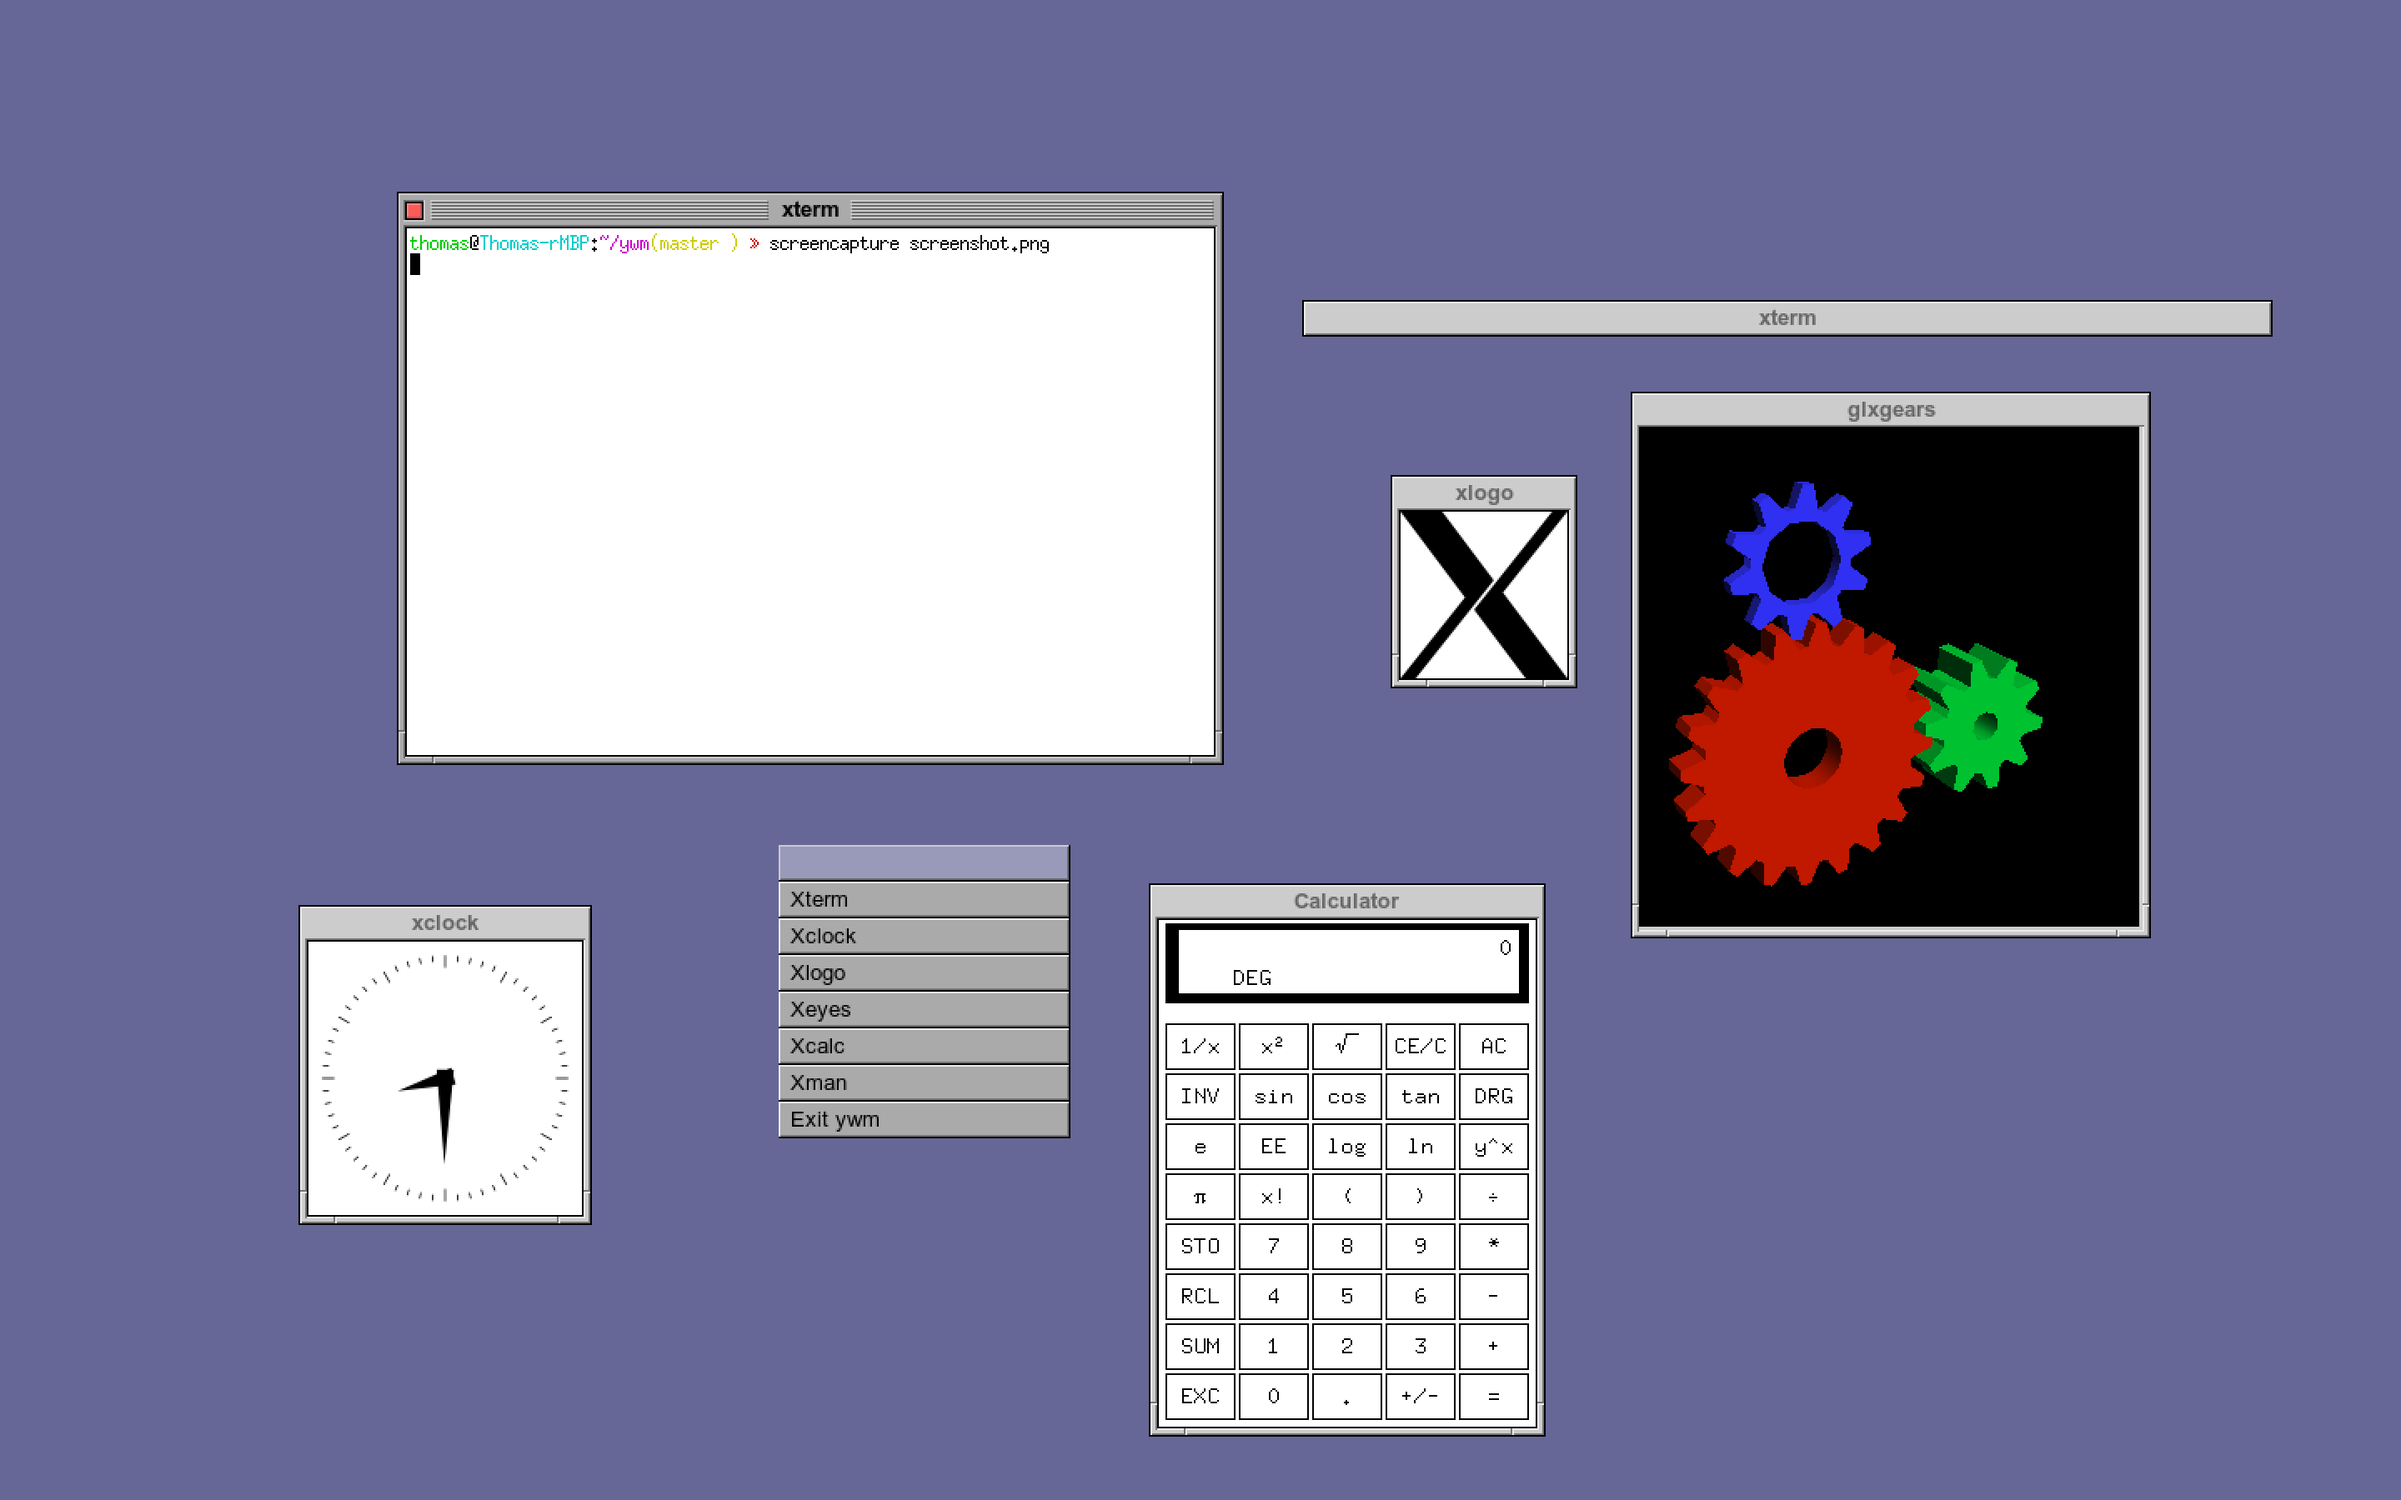
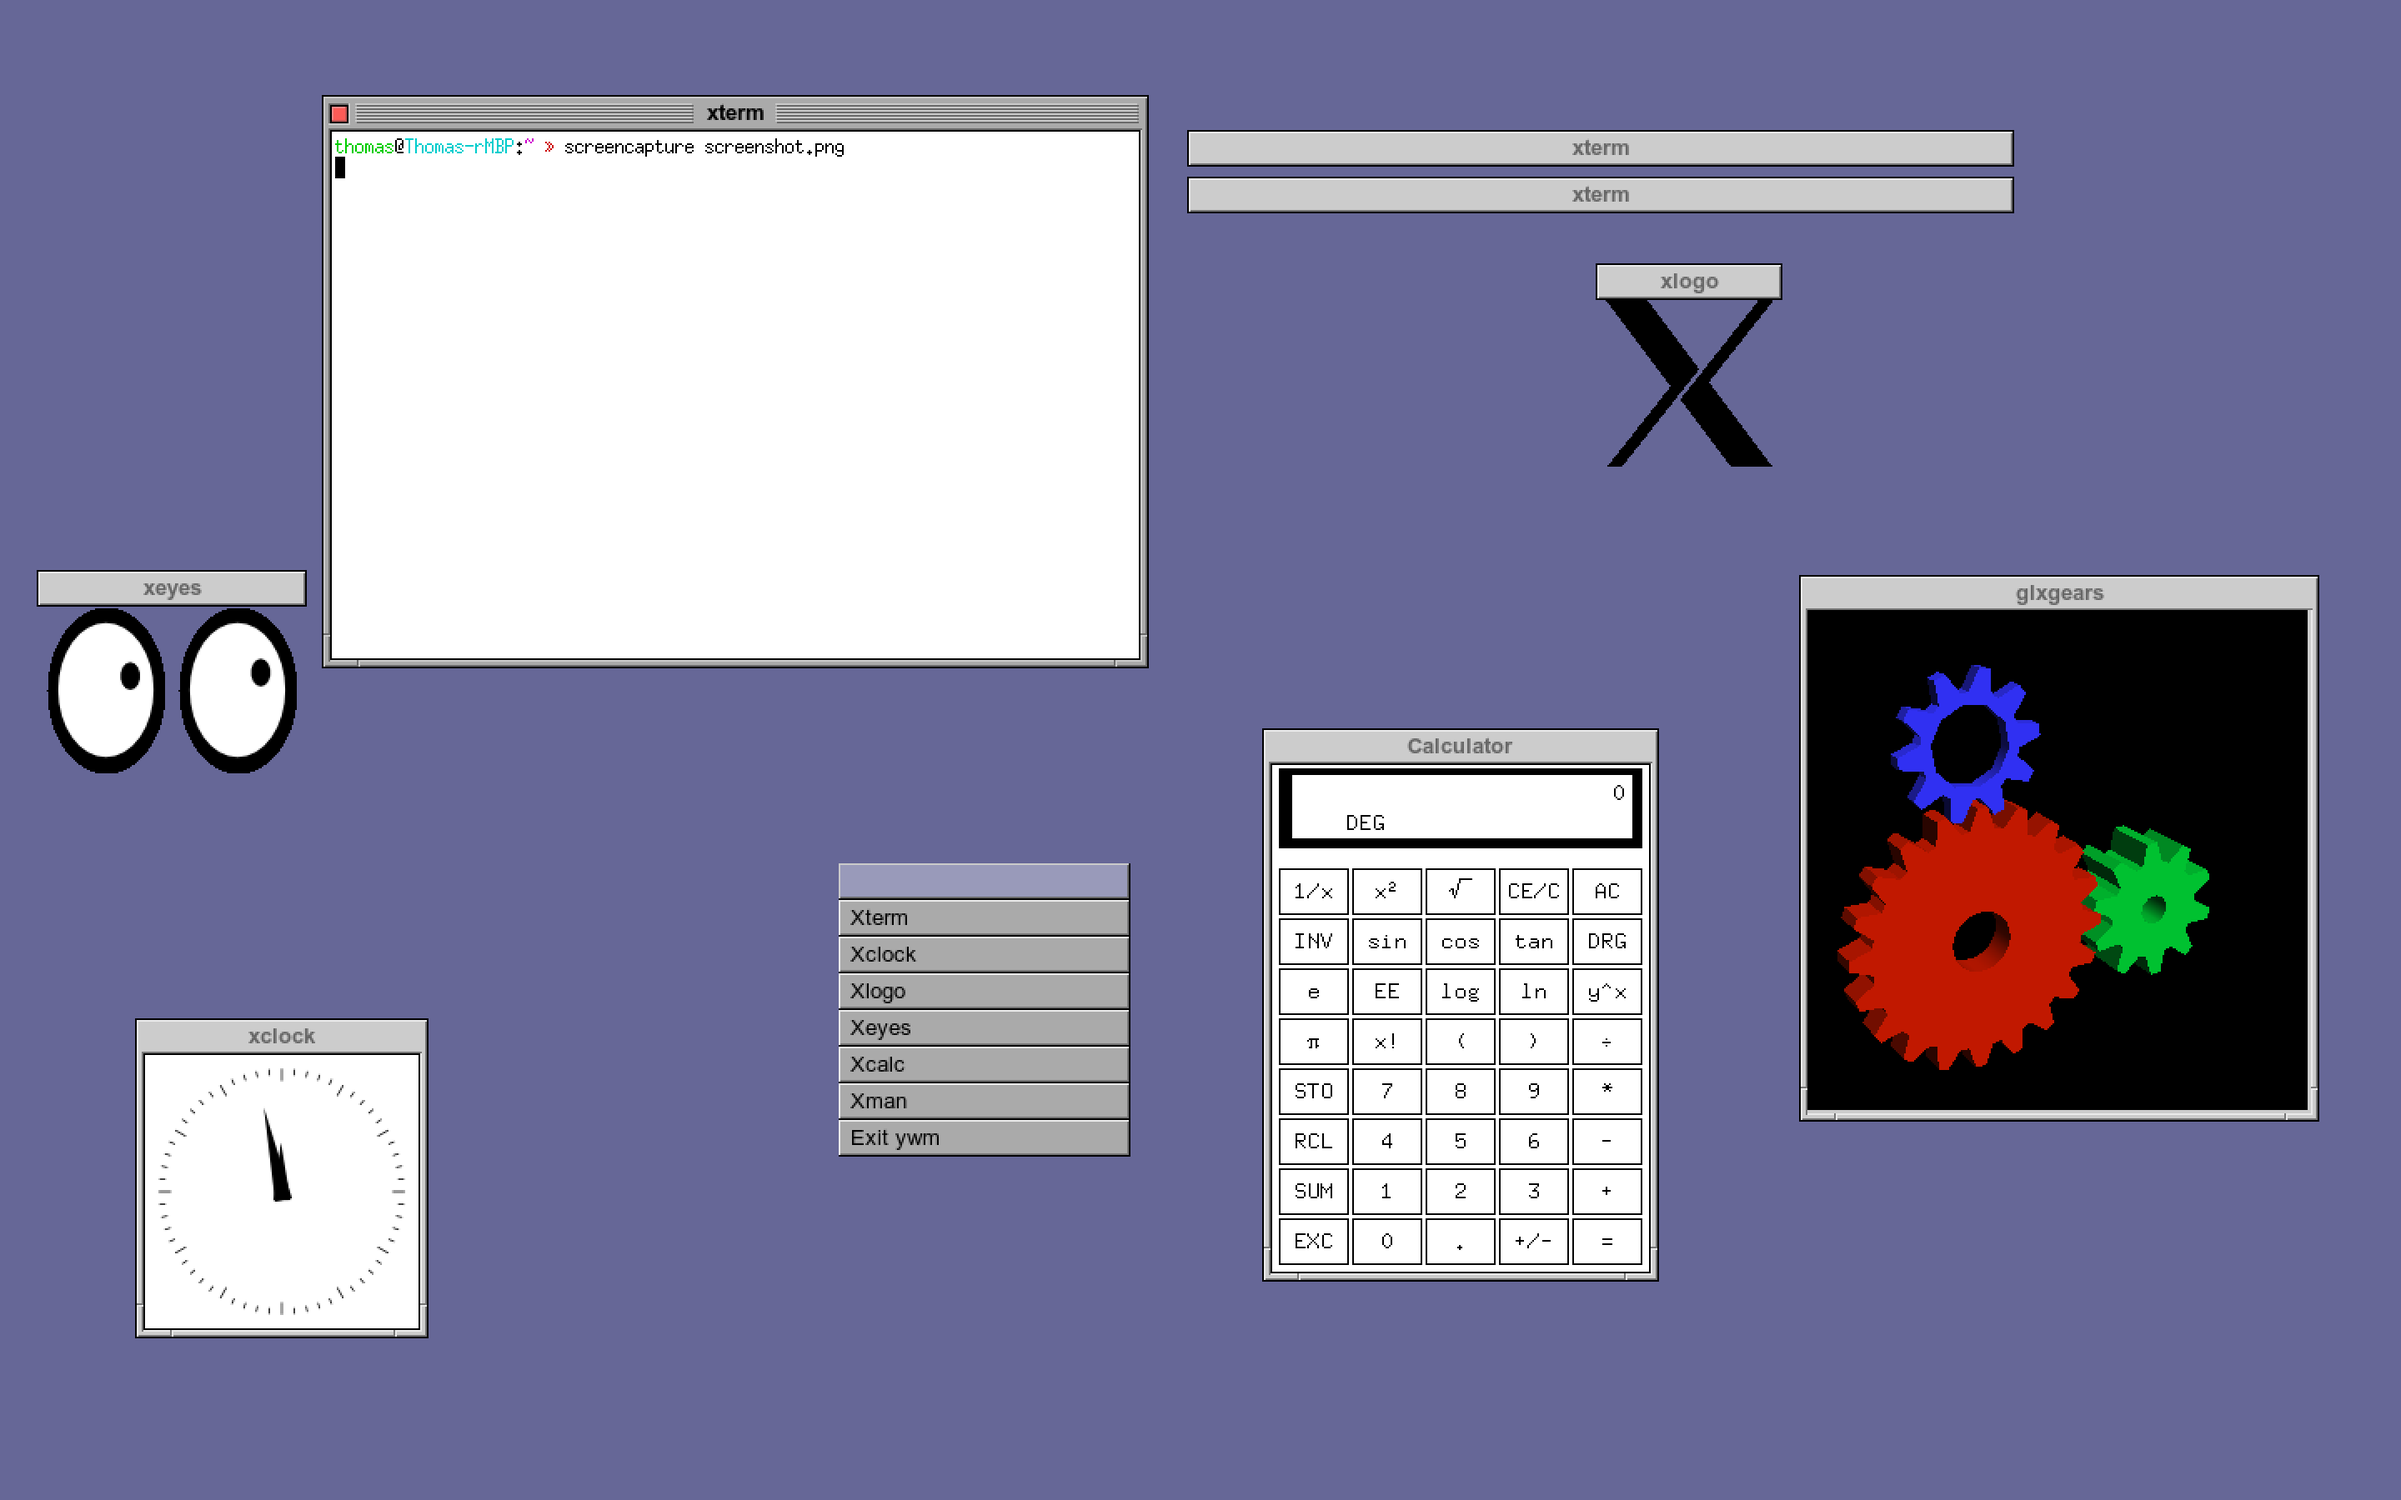
Implement the shape extension

diff --git a/src/ywm.c b/src/ywm.c
@@ -33,7 +33,7 @@ static void setup_display()
   XColor backgroundColor = create_color("#666797");
   XSetWindowBackground(dpy, root, backgroundColor.pixel);
   
-  xft_color.color.red = 0; //65535
+  xft_color.color.red = 0;
   xft_color.color.green = 0;
   xft_color.color.blue = 0;
   xft_color.color.alpha = 65535;
@@ -79,6 +79,9 @@ static void setup_display()
   pointerCursor = XCreateFontCursor(dpy, XC_left_ptr);
   resize_v = XCreateFontCursor(dpy, XC_sb_v_double_arrow);
   resize_h = XCreateFontCursor(dpy, XC_sb_h_double_arrow);
+
+  int dummy;
+  shape = XShapeQueryExtension(dpy, &shape_event, &dummy);
 
   XDefineCursor(dpy, root, pointerCursor);
 }
@@ -131,7 +134,7 @@ void draw_window_titlebar(Client *client, Rect initial_window)
     int titlex = (initial_window.width / 2) - (title_width / 2);
 		
     if (client == focused_client) {
-		xft_color.color.alpha = 65535;
+	  xft_color.color.alpha = 65535;
       int left_xend_light = titlex - 10;
       int right_xstart_light = titlex + title_width + 7;
       int right_xend_light = initial_window.width - 7;
@@ -166,7 +169,12 @@ void draw_window_titlebar(Client *client, Rect initial_window)
       } else {
         XDrawLine(dpy, client->frame, dark_gc, left_xstart_dark, y, xend_dark, y);
       }
-    }	
+    }
+  }
+  
+  if (client->shaped) {
+	  XDrawLine(dpy, client->frame, black_gc, 0, FRAME_TITLEBAR_HEIGHT, client->width + FRAME_BORDER_WIDTH + 6, FRAME_TITLEBAR_HEIGHT);
+	  XDrawLine(dpy, client->frame, dark_gc, 1, FRAME_TITLEBAR_HEIGHT - 1, client->width + FRAME_BORDER_WIDTH + 5, FRAME_TITLEBAR_HEIGHT - 1);
   }
 }
 
@@ -218,7 +226,7 @@ void redraw(Client *client)
     // dark border left
     XDrawLine(dpy, client->frame, dark_gc, 3, FRAME_TITLEBAR_HEIGHT - 1, 3, height - FRAME_BORDER_WIDTH);
 	  
-    // lower left corder
+    // lower left corner
     XDrawLine(dpy, client->frame, dark_gc, 0, height - FRAME_CORNER_OFFSET, FRAME_BORDER_WIDTH, height - FRAME_CORNER_OFFSET);
     XDrawLine(dpy, client->frame, light_gc, 0, height - FRAME_CORNER_OFFSET + 1, FRAME_BORDER_WIDTH, height - FRAME_CORNER_OFFSET + 1);
 
@@ -259,7 +267,7 @@ void frame(Window root, Window win)
                                      attrs.height + 26,
                                      1,
                                      0x000000,
-                                     0xaaaaaa);
+                                     0x00FF00);
 		
   Window close_button = create_titlebar_button(frame, attrs.x + 3, attrs.y + 4, 13, 13);
 			
@@ -269,15 +277,24 @@ void frame(Window root, Window win)
                SubstructureRedirectMask | SubstructureNotifyMask | ButtonMask | ExposureMask | EnterWindowMask);
 		 
   XAddToSaveSet(dpy, win);
-
   XReparentWindow(dpy, win, frame, 4, 20);  // Offset of client window within frame.
 	 	
   Client *client = (Client *)malloc(sizeof *client);
+  client->x = attrs.x;
+  client->y = attrs.y;
+  client->width = attrs.width;
+  client->height = attrs.height;
   client->shaded = 0;
+  client->shaped = 0;
   client->client = win;
   client->frame = frame;
   client->close_button = close_button;
   client->xft_draw = XftDrawCreate(dpy, (Drawable) client->frame, DefaultVisual(dpy, DefaultScreen(dpy)), DefaultColormap(dpy, DefaultScreen(dpy)));
+	 
+  if (shape) {
+	XShapeSelectInput(dpy, client->client, ShapeNotifyMask);
+	set_shape(client);
+  }
 	 
   XFetchName(dpy, win, &client->title);
   ylist_ins_prev(&clients, ylist_head(&clients), client);
@@ -360,6 +377,14 @@ void signal_handler(int signal)
     }
 }
 
+static void handle_shape_change(XShapeEvent *e)
+{
+	Client *c = find_client(e->window);
+	if (c != NULL) {
+		set_shape(c);
+	}
+}
+
 int main(int argc, char *argv[])
 {
 #ifdef DEBUG
@@ -436,6 +461,35 @@ int main(int argc, char *argv[])
     case LeaveNotify:
       on_leave_notify(&ev.xcrossing);
       break;
+	default:
+		if (shape && ev.type == shape_event) {
+			handle_shape_change((XShapeEvent *)&ev);
+		}
     }
   }
+}
+
+void set_shape(Client *c)
+{
+	int n, order;
+	XRectangle bounding, *temp;
+	int frame_border_width = FRAME_BORDER_WIDTH + 1;
+	int frame_titlebar_height = FRAME_TITLEBAR_HEIGHT + 1;
+	temp = XShapeGetRectangles(dpy, c->client, ShapeBounding, &n, &order);
+	if (n > 1) {
+		XShapeCombineShape(dpy, c->frame, ShapeBounding, frame_border_width, frame_titlebar_height, c->client, ShapeBounding, ShapeSet);
+		bounding.x = -frame_border_width;
+		bounding.y = -frame_border_width;
+		bounding.width = c->width + (2 * frame_border_width) + 6;
+		bounding.height = frame_titlebar_height + frame_border_width;
+		XShapeCombineRectangles(dpy, c->frame, ShapeBounding, 0, 0, &bounding, 1, ShapeUnion, YXBanded);
+		c->shaped = 1;
+	} else if (c->shaped) {
+		bounding.x = 0;
+		bounding.y = -FRAME_BORDER_WIDTH - 1;
+		bounding.width = c->width + (2 * FRAME_BORDER_WIDTH) - 1;
+		bounding.height = c->height + FRAME_TITLEBAR_HEIGHT + FRAME_BORDER_WIDTH;
+		XShapeCombineRectangles(dpy, c->frame, ShapeBounding, 0, 0, &bounding, 1, ShapeSet, YXBanded);
+	}
+	XFree(temp);
 }

diff --git a/src/menu.c b/src/menu.c
@@ -158,16 +158,6 @@ void draw_menu_title() {
   XDrawLine(dpy, root_menu, focused_dark_grey_gc, width - 1, 1, width - 1, height - 1);
   XDrawLine(dpy, root_menu, XDefaultGC(dpy, DefaultScreen(dpy)), width, 0, width, height);
   XDrawLine(dpy, root_menu, XDefaultGC(dpy, DefaultScreen(dpy)), 0, height, width, height);
-/*  
-  for (int i = 0; i < 12; i++) {
-    int y = 5 + i;
-    if (i % 2 == 0) {
-      XDrawLine(dpy, root_menu, menu_light_strip_gc, 5, y, MENU_MAX_WIDTH - 8, y);
-    } else {
-      XDrawLine(dpy, root_menu, menu_dark_strip_gc, 6, y, MENU_MAX_WIDTH - 7, y);
-    }
-  }
-*/	
 }
 
 static void draw_menu_item(MenuItem* menu_item, int flash) {

diff --git a/src/event.c b/src/event.c
@@ -72,7 +72,8 @@ void on_button_press(const XButtonEvent *ev)
 				XWindowAttributes client_attr;
 				XGetWindowAttributes(dpy, client->client, &client_attr);
 				
-				if (client_attr.map_state == IsUnmapped) { client->shaded = 0;
+				if (client_attr.map_state == IsUnmapped) { 
+					client->shaded = 0;
 					
 					int x, y;
 					unsigned width, height, border_width, depth;
@@ -87,6 +88,7 @@ void on_button_press(const XButtonEvent *ev)
 			
 					XRaiseWindow(dpy, client->client);
 					XResizeWindow(dpy, client->frame, width + 10, height + 26);
+					set_shape(client);
 					XMapWindow(dpy, client->client);
 				} else {
 					client->shaded = 1;

diff --git a/src/ywm.h b/src/ywm.h
@@ -71,6 +71,10 @@ Cursor resize_h;
 YList clients;
 YList focus_stack;
 
+Bool shape;
+int shape_event;
+
+void set_shape(Client *);
 void frame(Window root, Window win);
 void unframe(Window win);
 void redraw(Client *client);

diff --git a/src/client.h b/src/client.h
@@ -18,7 +18,10 @@ typedef struct {
   Window client;
   Window frame;
   XftDraw *xft_draw;
-  int shaded;
+  Bool shaded;
+  Bool shaped;
+  int width, height;
+  int x, y;
 } Client;
 
 #endif
